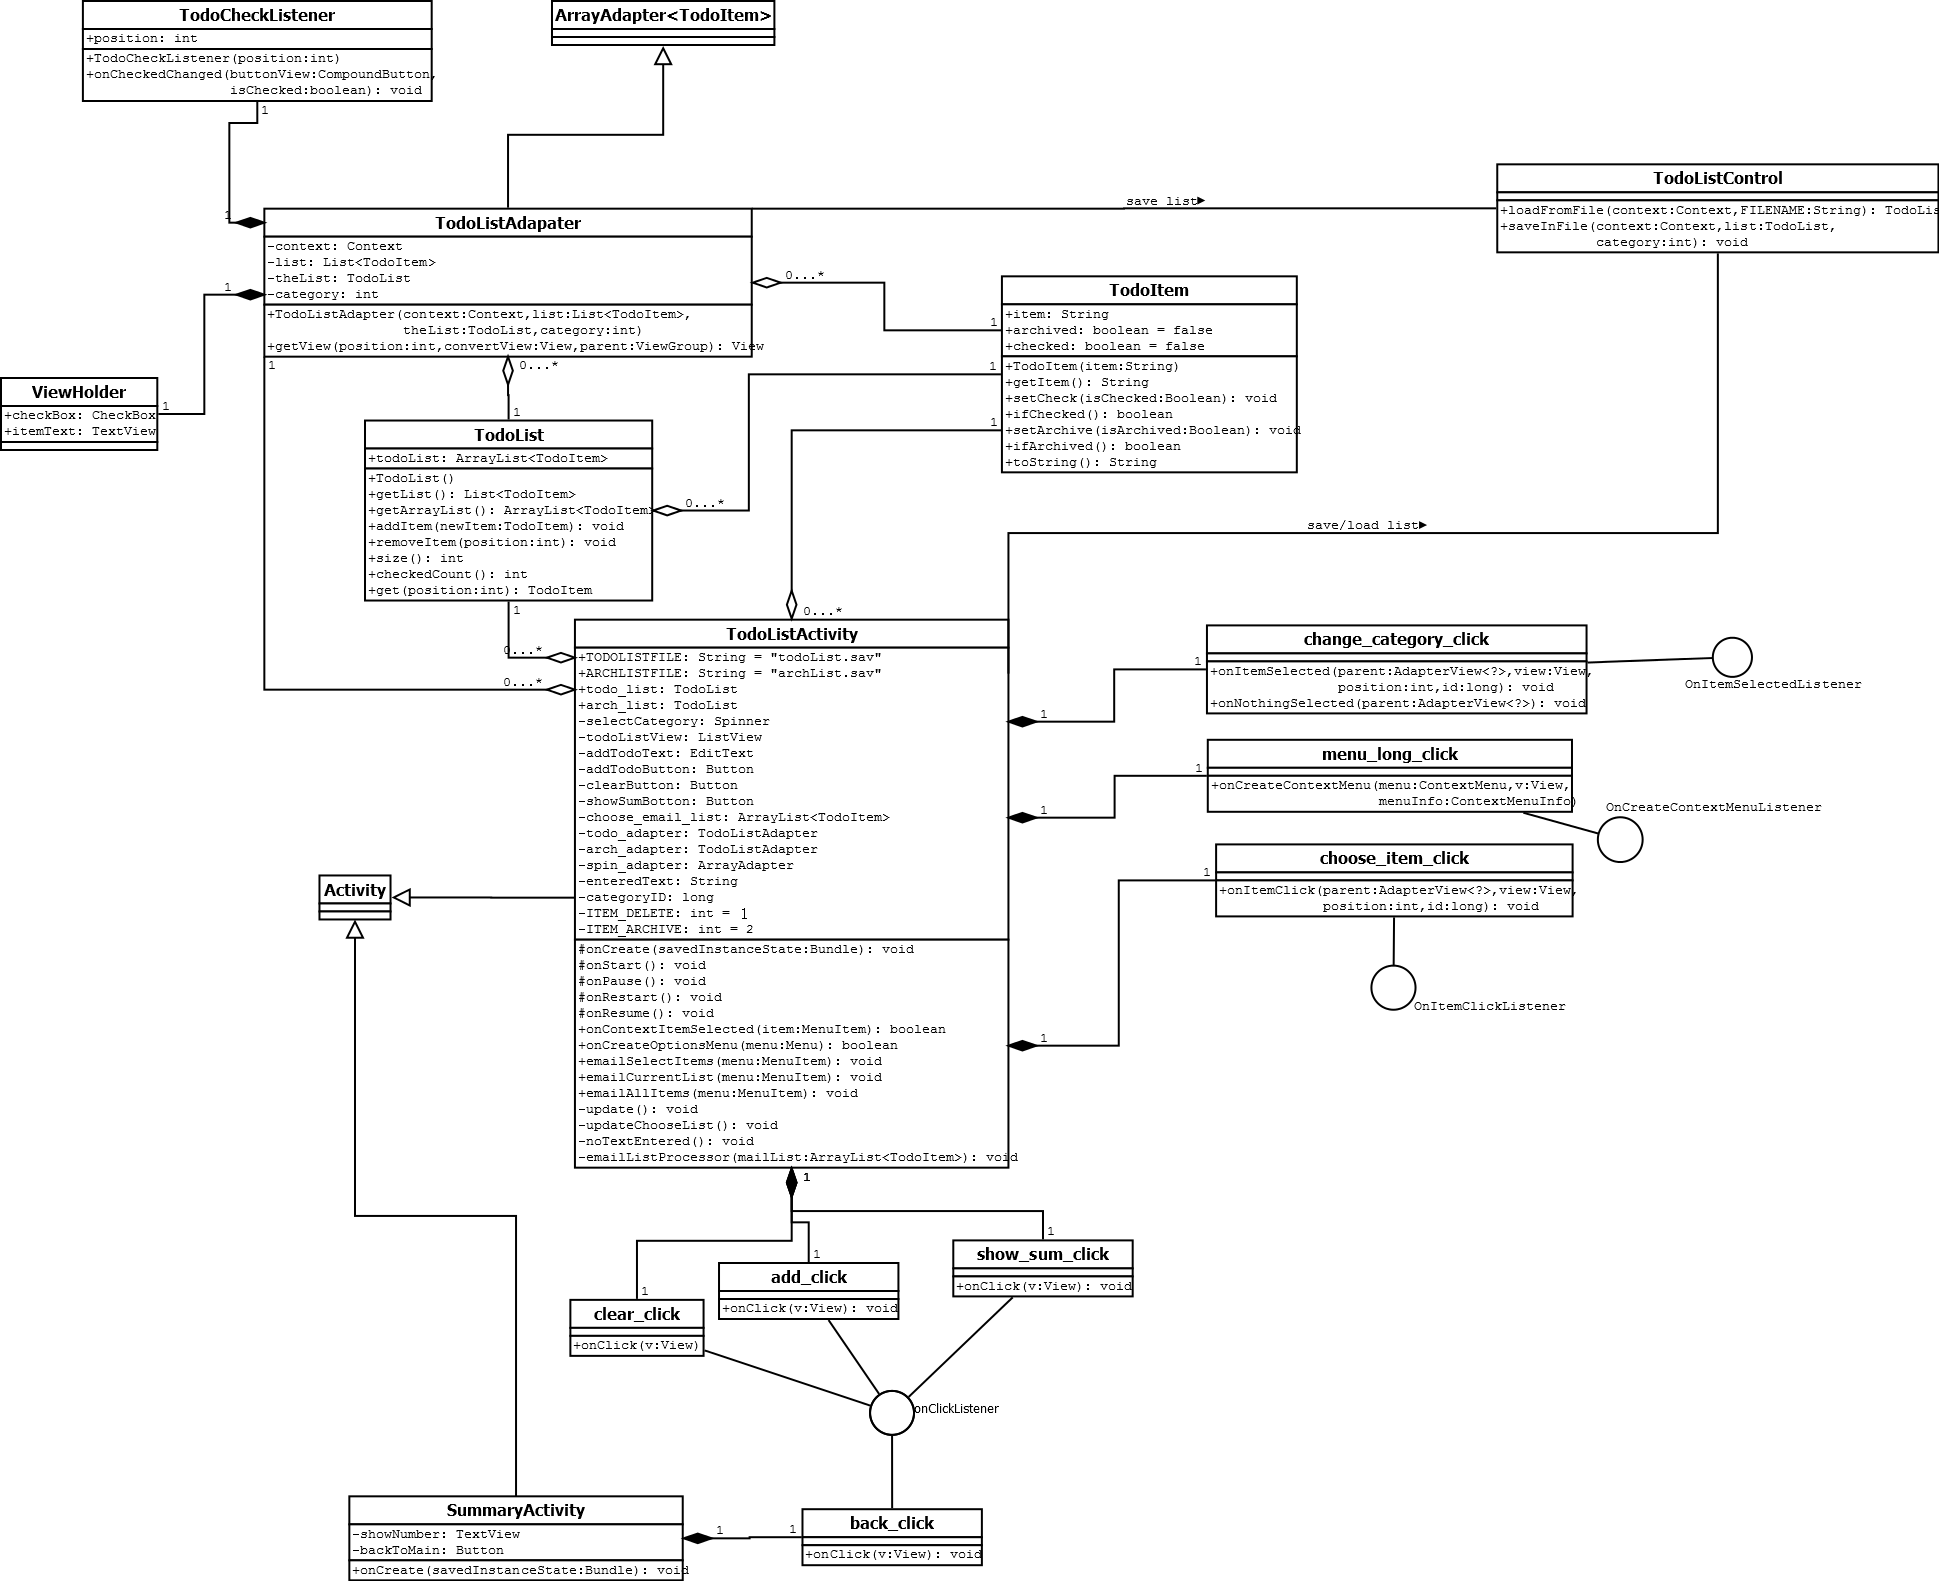
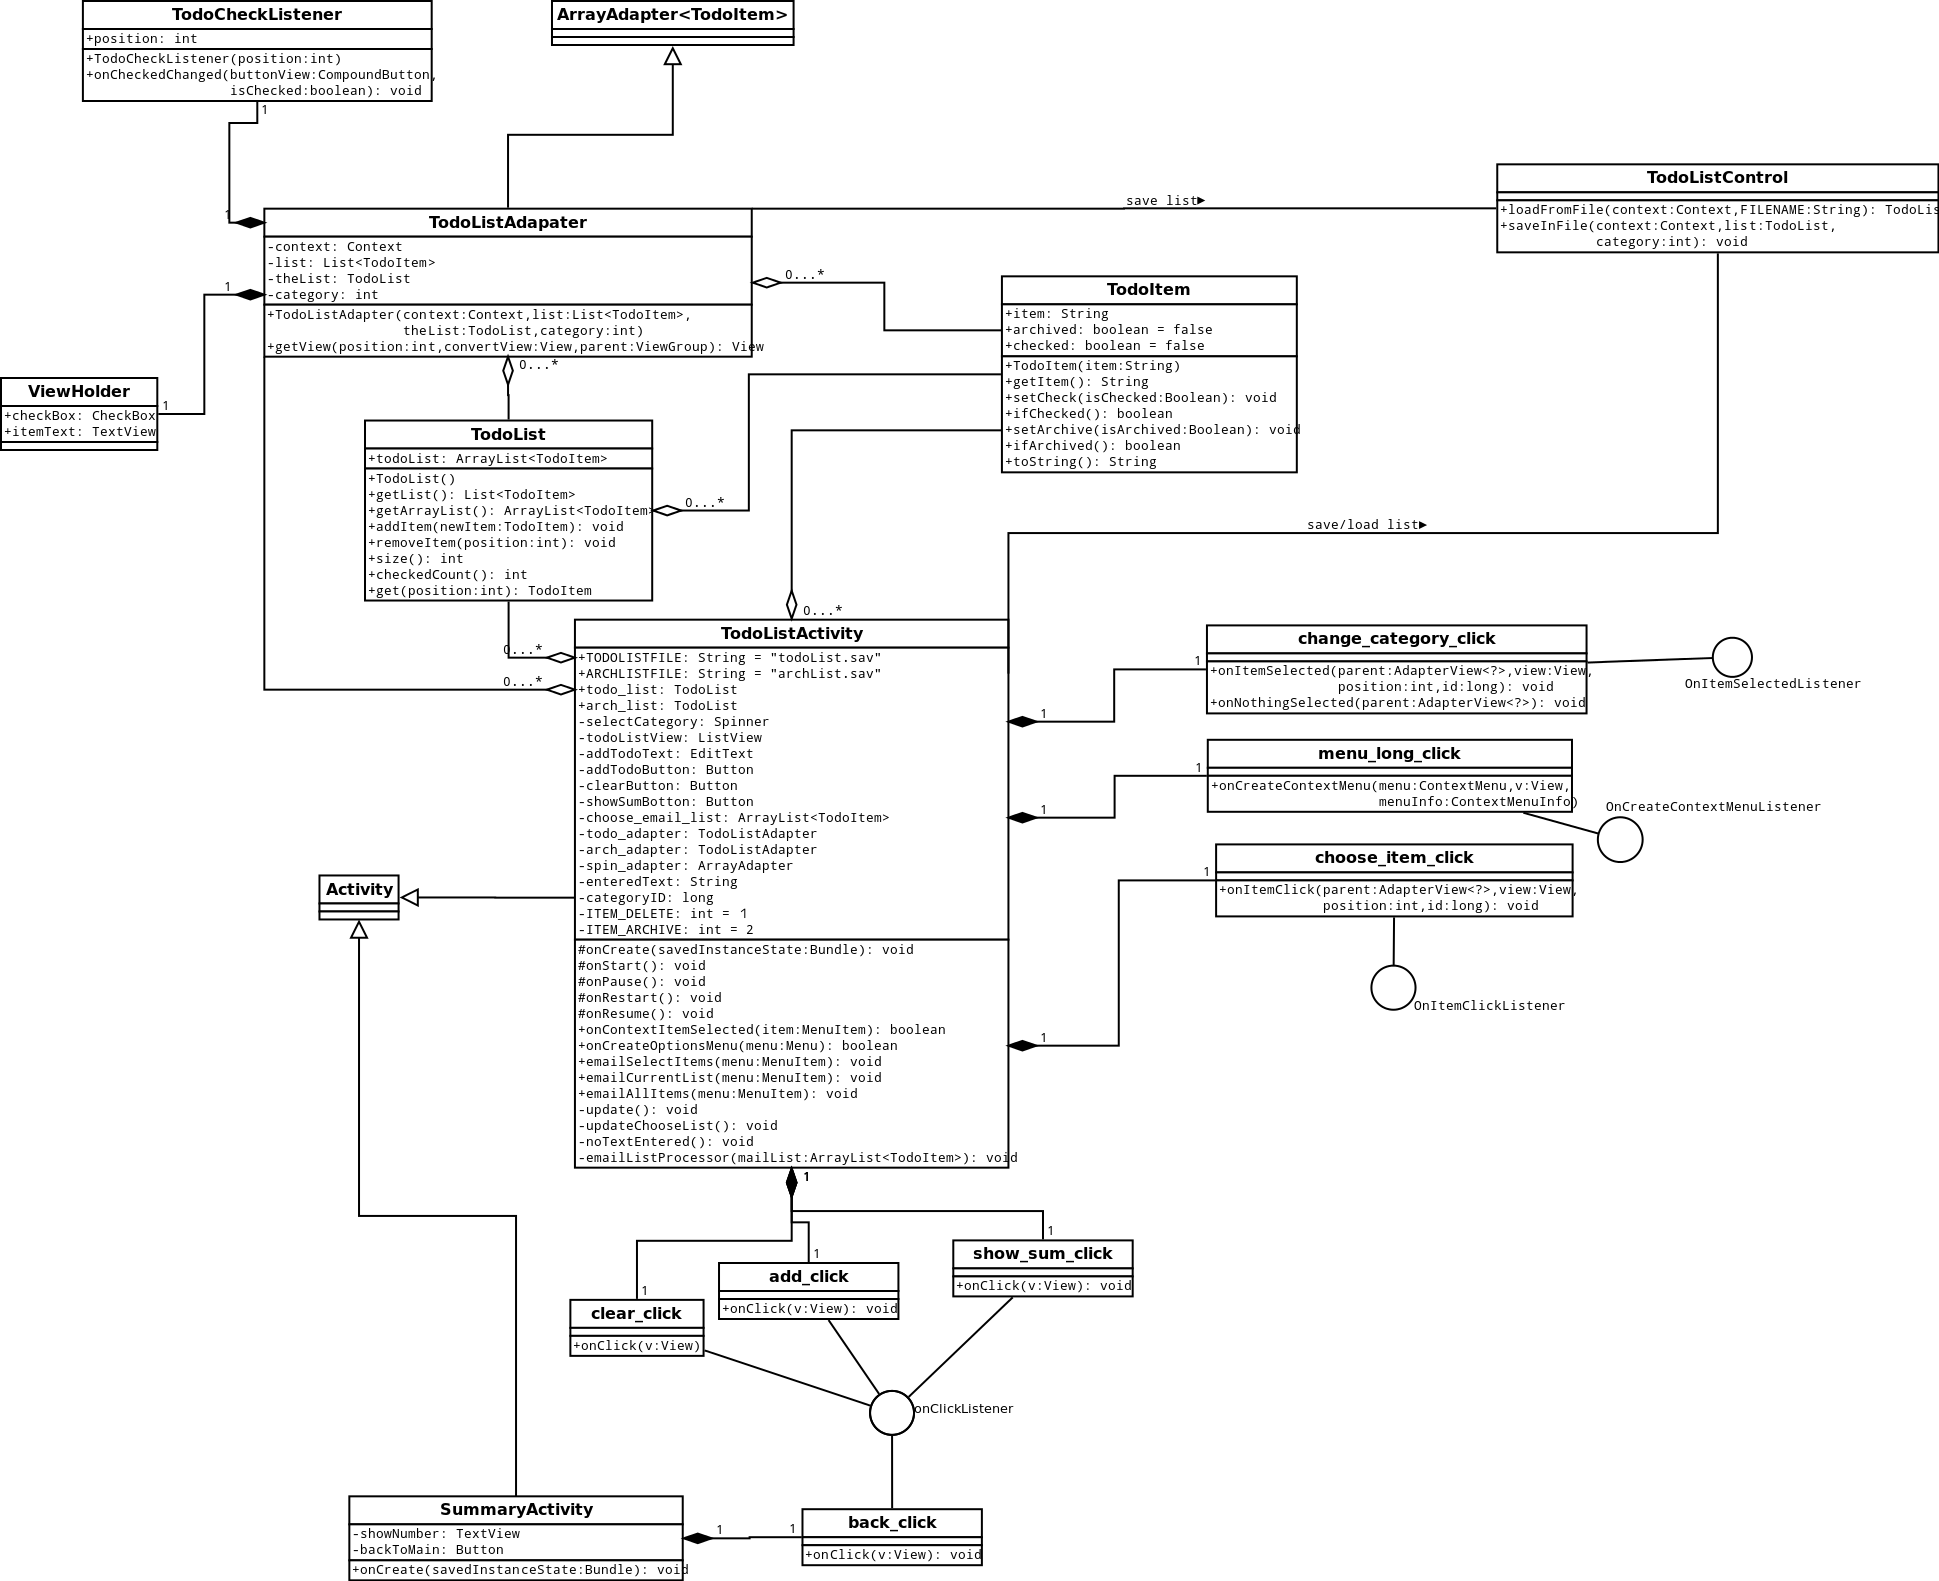
Update UML and Readme

diff --git a/README.md b/README.md
@@ -1,2 +1,34 @@
-adai1-TodoList
-==============
+name:               Anni Dai
+ONE Card number:    1264320
+Unix id:            adai1
+lecture section:    A1
+instructor's name:  Abram Hindle
+lab section:        D01
+=========================================================
+This TodoList Application will start by click the app "adai1-TodoList" in the Launcher.
+=========================================================
+After start the application, the main activity haves three button(show summary, add, clear), one gray listview area, one edittext and the right 
+
+========================================================
+
+========================================================
+
+========================================================
+If you exit the App, it will remember everthing you did.
+========================================================
+License
+========================================================
+
+Copyright 2014 Anni Dai
+
+Licensed under the Apache License, Version 2.0 (the "License");
+you may not use this file except in compliance with the License.
+You may obtain a copy of the License at
+
+    http://www.apache.org/licenses/LICENSE-2.0
+
+Unless required by applicable law or agreed to in writing, software
+distributed under the License is distributed on an "AS IS" BASIS,
+WITHOUT WARRANTIES OR CONDITIONS OF ANY KIND, either express or implied.
+See the License for the specific language governing permissions and
+limitations under the License.
